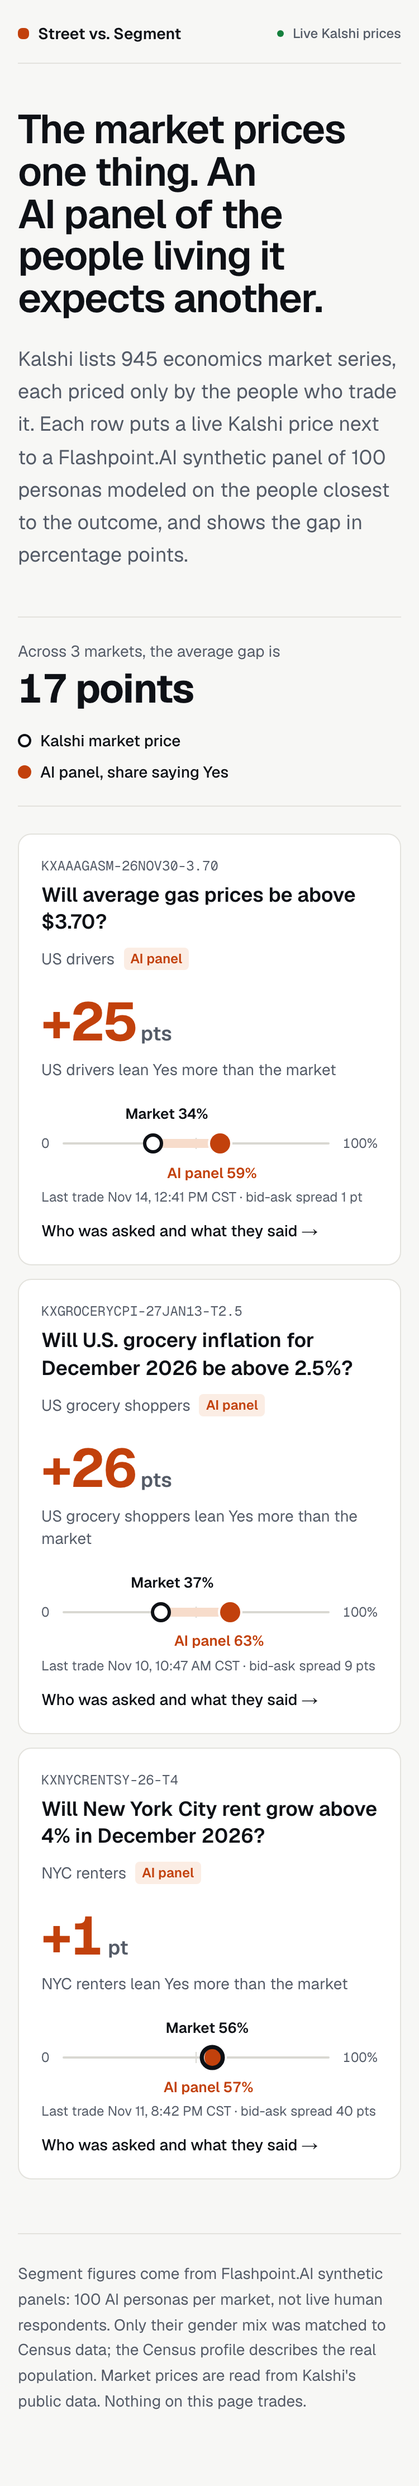
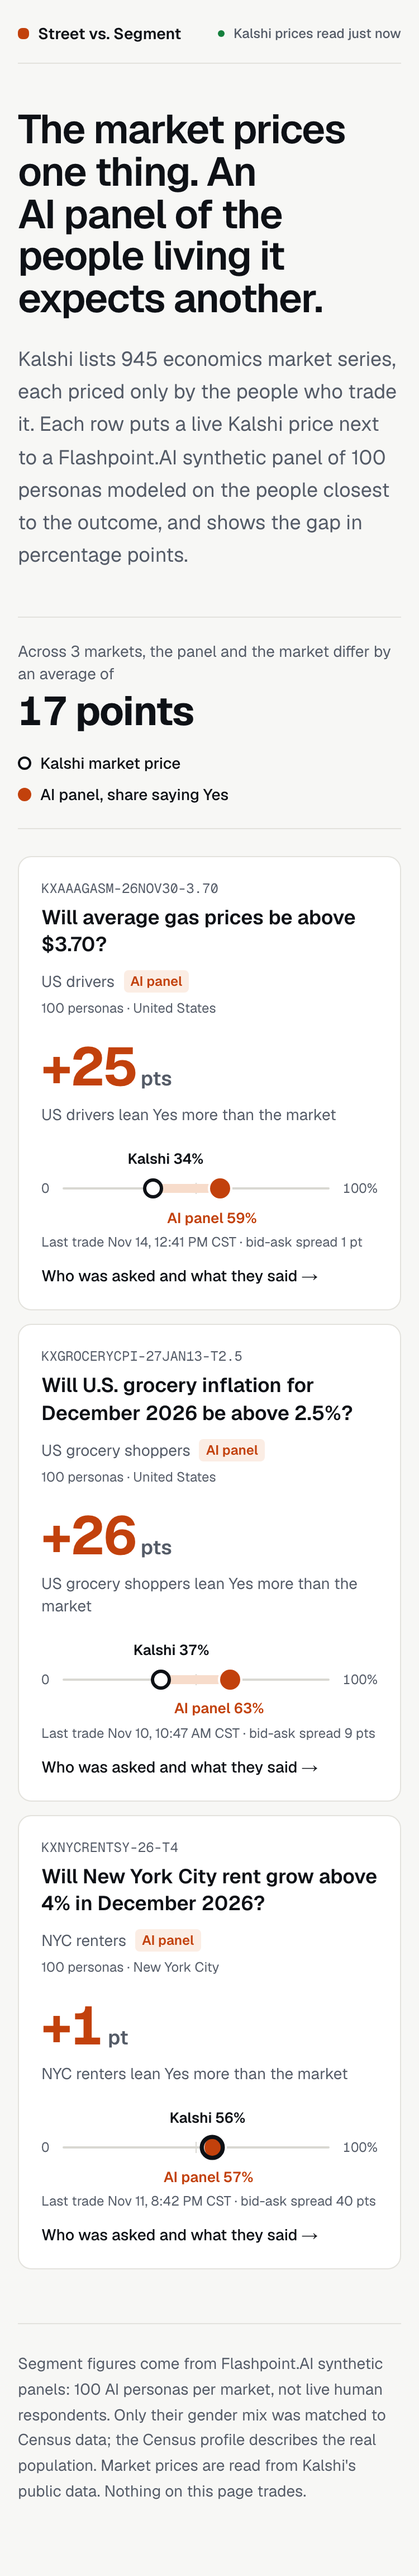
Apply code-review fixes and refresh screenshots
The top bar now says "Kalshi prices read just now" (the last trade can be
days old) and the lede drops "live" when any price is saved. The panel
dot stays above the market ring, the header brand no longer wraps at
375 px, and the market-page gap column has a bounded width. Tests now
check the price status in both states, the market-page card numbers, the
saved price on the market page, and the market page at 375 px.

diff --git a/e2e/home.spec.ts b/e2e/home.spec.ts
@@ -24,6 +24,10 @@ test("opens a market to show who was asked, the questions and their quotes", asy
   await page.goto("/");
   await page.getByTestId("gap-card").filter({ hasText: "Fixture renters" }).click();
   await expect(page).toHaveURL(/\/m\/KXNYCRENTSY-26-T4$/);
+  await expect(page.getByTestId("market-percent")).toHaveText(/^\d{1,3}%$/);
+  await expect(page.getByTestId("segment-percent")).toHaveText(/^\d{1,3}%$/);
+  await expect(page.getByTestId("gap-value")).toHaveText(/^([+−]\d{1,3}|0)\s*pts?$/);
+  await expect(page.getByTestId("price-source")).toBeVisible();
   await expect(page.getByTestId("panel-profile")).toContainText("Fixture stat A");
   await expect(page.getByTestId("panel-questions")).toContainText("Fixture yes/no question");
   expect(await page.getByTestId("quote").count()).toBeGreaterThanOrEqual(3);
@@ -38,6 +42,8 @@ test("shows the saved price when Kalshi cannot be reached", async ({ page }) => 
   for (const source of await sources.all()) {
     await expect(source).toContainText("Saved price");
   }
+  await page.goto("http://localhost:3101/m/KXNYCRENTSY-26-T4");
+  await expect(page.getByTestId("price-source")).toContainText("Saved price");
 });
 
 test("fits a 375-pixel phone screen without sideways scrolling", async ({ page }) => {
@@ -46,6 +52,10 @@ test("fits a 375-pixel phone screen without sideways scrolling", async ({ page }
   await expect(page.getByTestId("gap-card").first()).toBeVisible();
   const overflow = await page.evaluate(() => document.documentElement.scrollWidth - window.innerWidth);
   expect(overflow).toBeLessThanOrEqual(0);
+  await page.goto("/m/KXNYCRENTSY-26-T4");
+  await expect(page.getByTestId("gap-value")).toBeVisible();
+  const detailOverflow = await page.evaluate(() => document.documentElement.scrollWidth - window.innerWidth);
+  expect(detailOverflow).toBeLessThanOrEqual(0);
 });
 
 test("shows the known-answer check on the card and in full on the market page", async ({ page }) => {

diff --git a/src/components/SiteHeader.tsx b/src/components/SiteHeader.tsx
@@ -4,7 +4,7 @@ import Link from "next/link";
 export function SiteHeader({ children }: { children?: React.ReactNode }) {
   return (
     <header className="flex items-center justify-between gap-4 border-b border-line pb-4">
-      <Link href="/" className="flex items-center gap-2 text-sm font-semibold text-ink">
+      <Link href="/" className="flex shrink-0 items-center gap-2 whitespace-nowrap text-sm font-semibold text-ink">
         <span className="size-2.5 rounded-sm bg-panel" aria-hidden />
         Street vs. Segment
       </Link>
@@ -13,14 +13,15 @@ export function SiteHeader({ children }: { children?: React.ReactNode }) {
   );
 }
 
-// "Live Kalshi prices" only when every price on the page came from Kalshi just now; when any
+// "Kalshi prices read just now" only when every price on the page came from Kalshi on this
+// request (the last trade itself can be days old); when any
 // card fell back to its saved price, it says so instead, so a saved price is never called live.
 export function PriceStatus({ live }: { live: boolean }) {
   return (
-    <p className="flex items-center gap-2 text-xs font-medium text-muted" data-testid="price-status">
+    <p className="flex items-center gap-2 text-right text-xs font-medium text-muted" data-testid="price-status">
       <span className={`size-1.5 shrink-0 rounded-full ${live ? "bg-live" : "bg-muted"}`} aria-hidden />
       <span>
-        {live ? "Live Kalshi prices" : "Some prices are saved, not live"}
+        {live ? "Kalshi prices read just now" : "Some prices are saved, not live"}
         <span className="hidden sm:inline"> · Flashpoint.AI panels</span>
       </span>
     </p>

diff --git a/src/app/page.tsx b/src/app/page.tsx
@@ -32,7 +32,7 @@ export default async function Home() {
         </h1>
         <p className="mt-5 max-w-2xl text-lg leading-relaxed text-muted">
           Kalshi lists 945 economics market series, each priced only by the people who trade it. Each
-          row puts a live Kalshi price next to a Flashpoint.AI synthetic panel of 100 personas modeled
+          row puts {allLive ? "a live" : "a"} Kalshi price next to a Flashpoint.AI synthetic panel of 100 personas modeled
           on the people closest to the outcome, and shows the gap in percentage points.
         </p>
       </section>
@@ -47,7 +47,9 @@ export default async function Home() {
             {average !== null && (
               <p className="flex flex-wrap items-baseline gap-x-3 gap-y-1 text-ink" data-testid="average-gap">
                 <span className="text-sm text-muted">Across {runs.length} markets, the panel and the market differ by an average of</span>
-                <strong className="text-4xl font-bold tracking-tight tabular-nums">{average} points</strong>
+                <strong className="text-4xl font-bold tracking-tight tabular-nums">
+                  {average} {average === 1 ? "point" : "points"}
+                </strong>
               </p>
             )}
             <ul className="flex flex-wrap items-center gap-x-5 gap-y-2 text-sm font-medium text-ink">

diff --git a/src/components/SiteHeader.test.tsx b/src/components/SiteHeader.test.tsx
@@ -1,0 +1,17 @@
+import { render, screen } from "@testing-library/react";
+import { describe, expect, it } from "vitest";
+import { PriceStatus } from "./SiteHeader";
+
+describe("PriceStatus", () => {
+  it("says the prices were read just now only when every price is live", () => {
+    render(<PriceStatus live />);
+    expect(screen.getByTestId("price-status")).toHaveTextContent(/^Kalshi prices read just now/);
+  });
+
+  it("never calls a saved price live", () => {
+    render(<PriceStatus live={false} />);
+    const status = screen.getByTestId("price-status");
+    expect(status).toHaveTextContent(/^Some prices are saved, not live/);
+    expect(status).not.toHaveTextContent("read just now");
+  });
+});

diff --git a/src/components/GapCard.tsx b/src/components/GapCard.tsx
@@ -55,7 +55,7 @@ export function GapCard({ run, price, linked = true }: Props) {
 
   if (!linked) {
     return (
-      <section className="grid grid-cols-1 gap-8 lg:grid-cols-[minmax(0,1fr)_auto] lg:items-end lg:gap-16">
+      <section className="grid grid-cols-1 gap-8 lg:grid-cols-[minmax(0,1fr)_minmax(14rem,22rem)] lg:items-end lg:gap-16">
         <div className="min-w-0">
           <SegmentLabel run={run} />
           <h1 className="mt-3 text-3xl font-semibold leading-[1.1] tracking-tight text-ink sm:text-5xl">

diff --git a/FEATURES.md b/FEATURES.md
@@ -6,7 +6,7 @@ What Street vs. Segment does today, in plain words, and the test that proves eac
 |---|---|---|---|---|
 | Gap cards | The home page shows one card per saved research run. Each card shows the market's Yes price, the segment's Yes share labeled "AI panel", the gap as a signed number of points with its direction, and an average-gap line above the cards | Open the site's home page | `e2e/home.spec.ts#shows one gap card per saved run with market, segment and signed gap`, `src/lib/gap.test.ts#always equals the displayed segment minus the displayed market` | No cards, a card missing a number, an unsigned gap, or a gap that does not equal the two numbers subtracted |
 | Market detail | Opening a card shows who was asked (Census profile), the questions Flashpoint asked, and at least three quotes, with the full AI-panel disclosure | Click any card | `e2e/home.spec.ts#opens a market to show who was asked, the questions and their quotes` | A blank or error page, or a missing panel or quote |
-| Saved-price fallback | When Kalshi cannot be reached, each card shows the price saved with the run and says "Saved price", and the top bar says "Some prices are saved, not live" instead of "Live Kalshi prices" | Happens on its own when Kalshi is down | `e2e/home.spec.ts#shows the saved price when Kalshi cannot be reached`, `src/lib/kalshi.test.ts#returns the saved price when the network fails` | An error page, a blank price, or a saved price labeled as live |
+| Saved-price fallback | When Kalshi cannot be reached, each card shows the price saved with the run and says "Saved price", and the top bar says "Some prices are saved, not live" instead of "Kalshi prices read just now" | Happens on its own when Kalshi is down | `e2e/home.spec.ts#shows the saved price when Kalshi cannot be reached`, `src/lib/kalshi.test.ts#returns the saved price when the network fails`, `src/components/SiteHeader.test.tsx#never calls a saved price live` | An error page, a blank price, or a saved price labeled as live |
 | Phone layout | The page fits a 375-pixel phone screen with no sideways scrolling | Open the site on a phone | `e2e/home.spec.ts#fits a 375-pixel phone screen without sideways scrolling` | The page scrolls sideways or text is cut off |
 | Known-answer check | When a run has a known-answer check, its home card shows one line: the known answer, the fact, the panel's Yes share and a link to the source. The market page shows the full question, the fact, and how many points the panel missed the truth by | Open the home page; click a card that has the line | `e2e/home.spec.ts#shows the known-answer check on the card and in full on the market page` | The line is missing on a run that has the check, the source link is broken, or the miss is not the panel's distance from 0% or 100% |
 | Who drives the gap | When a run has breakdowns, the market page shows each group (by age, region or gender) with its size and Yes share as a bar, with the Kalshi price marked on every bar | Click a card whose run has breakdowns | `e2e/home.spec.ts#shows who drives the gap with each group's Yes share` | The section is missing, a group is missing, or a share is wrong |
